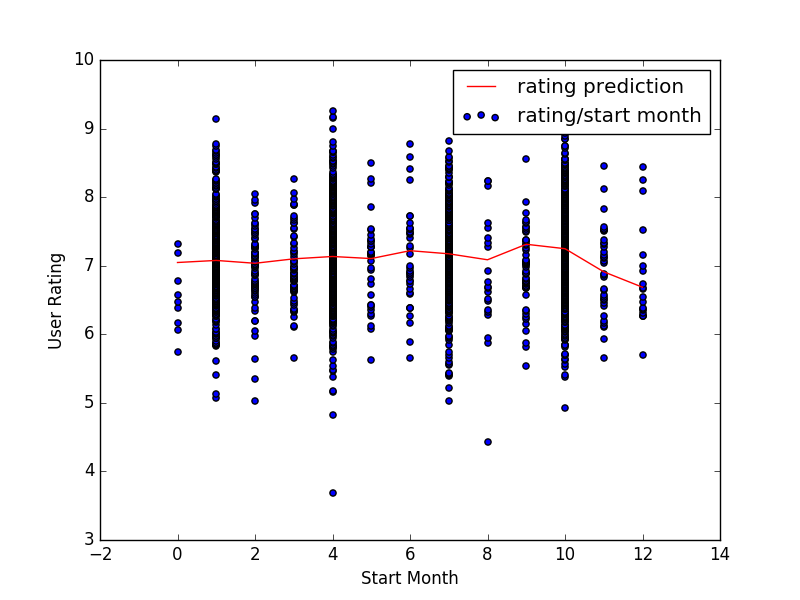
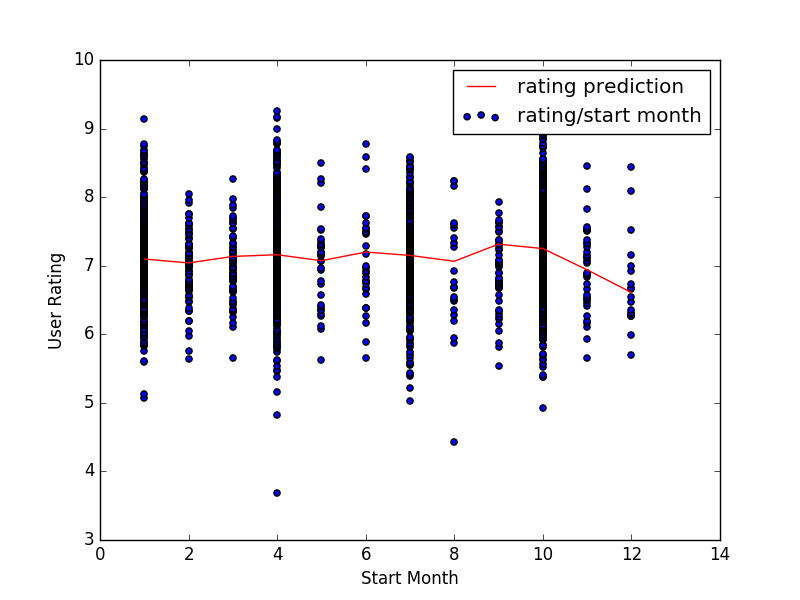
Adding fixed figures

diff --git a/DataRepository/LocalLinearRegression.py b/DataRepository/LocalLinearRegression.py
@@ -47,7 +47,8 @@ if __name__=='__main__':
 
     for anime in animeList:
         if (anime.score < 2 or anime.episodes <= 0 
-            or anime.episodes >= 100 or anime.duration <= 0):
+            or anime.episodes >= 100 or anime.duration <= 0
+            or anime.getMonth() <= 0 or anime.ratingCount <= 0):
             continue
         num = random.random()
         y = anime.score
